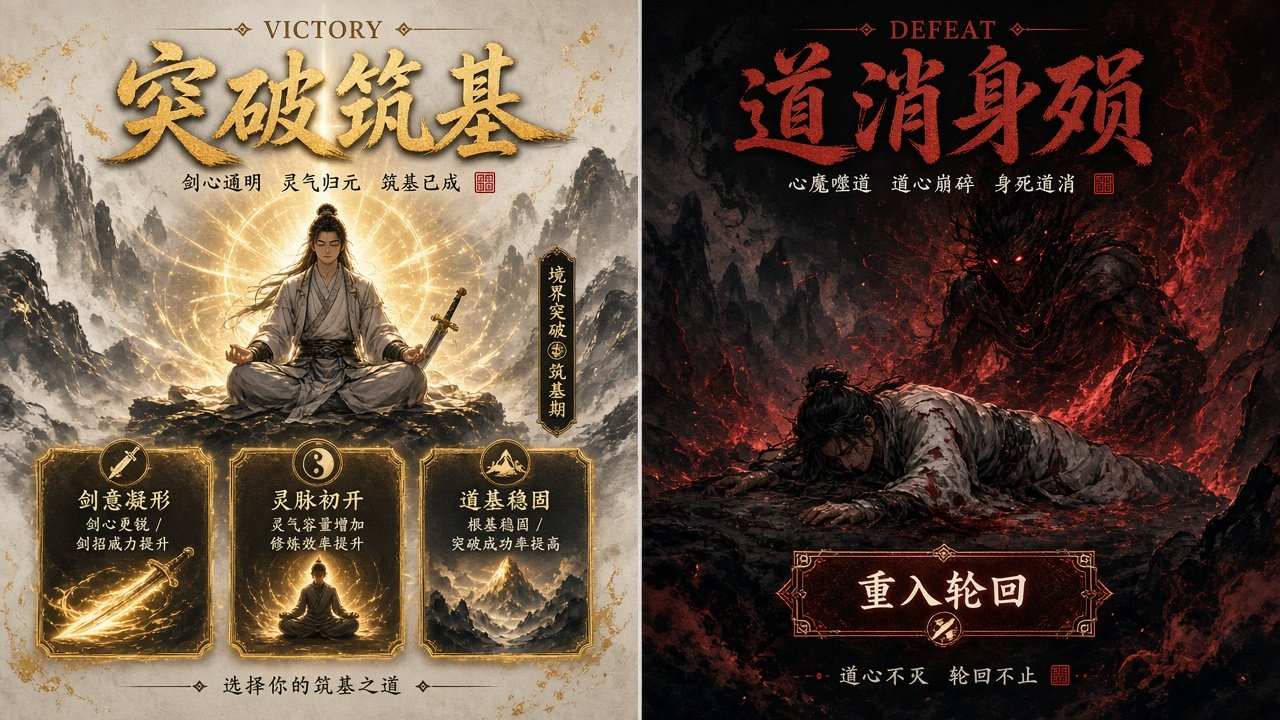
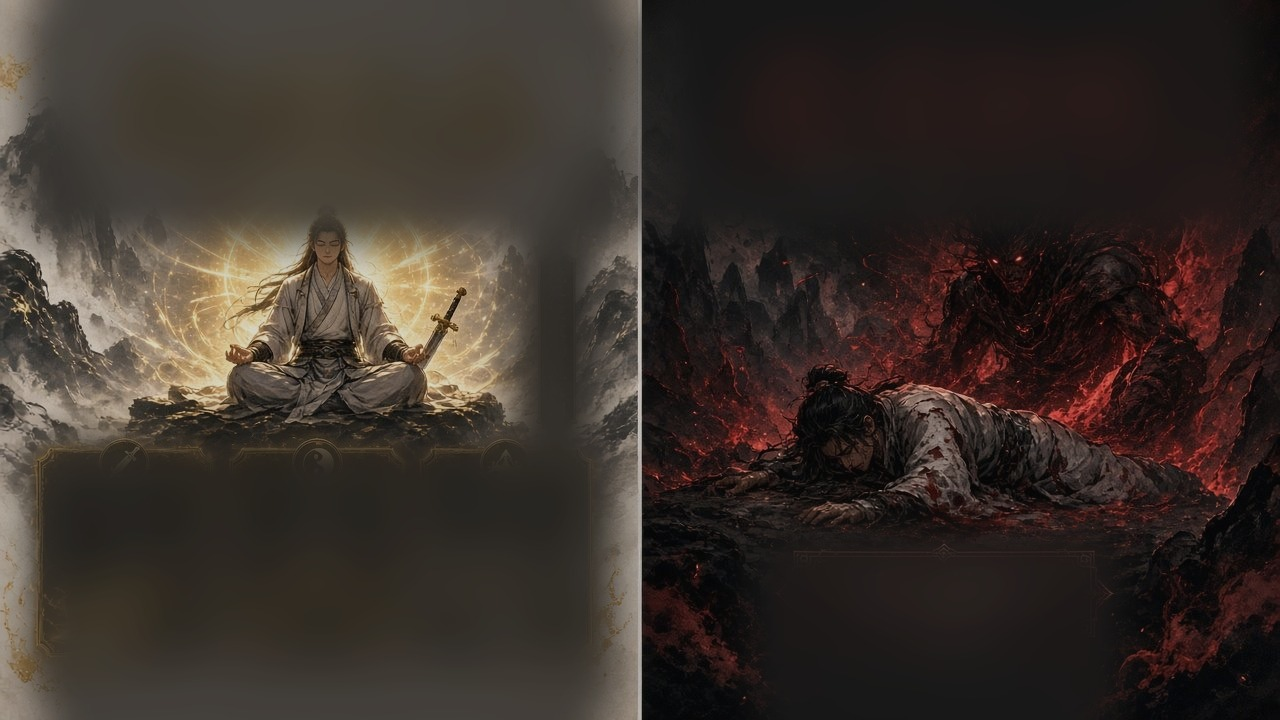
Update the static game to v0.3.
Replace the root site with the new build, including daoxin config, favicons, and card art.

diff --git a/style.css b/style.css
@@ -92,3 +92,29 @@ h1{text-align:center;color:#e8c66a;letter-spacing:6px;margin:0}
 
 .item.relicrow{border:2px solid #e8c66a;box-shadow:0 0 12px rgba(232,198,106,.5)}
 .card.sheng{filter:drop-shadow(0 0 4px rgba(124,255,154,.55))}
+.card .art{position:absolute;overflow:hidden}.card .art img.cart{position:absolute;inset:0;width:100%;height:100%;object-fit:cover}
+
+/* v0.3 */
+.intent.warn{color:#ff5a48;border-color:#ff3020;font-size:18px;font-weight:bold;padding:4px 12px}
+.predict{margin-top:3px;font-size:14px;color:#ff8a7a;font-weight:bold;text-shadow:0 1px 2px #000}.predict.safe{color:#9fe6a0}
+.shengtip{position:absolute;left:50%;top:150px;transform:translateX(-50%);z-index:70;background:rgba(14,30,18,.95);border:2px solid #7cff9a;border-radius:12px;padding:12px 22px;font-size:16px;line-height:1.7;text-align:center;cursor:pointer}
+.shengtip b{color:#9fff9f;font-size:19px}.shengtip small{color:#bfae86}
+.wheel .warrow{position:absolute;left:0;top:0;width:170px;height:170px;pointer-events:none}
+.wheel .warrow line{stroke:#7cff9a;stroke-width:9;stroke-linecap:round;filter:drop-shadow(0 0 6px #7cff9a);animation:aflash .35s 4 alternate}
+@keyframes aflash{from{opacity:1}to{opacity:.15}}
+.eblk{display:inline-flex;align-items:center;justify-content:center;width:40px;height:40px;margin-left:6px;vertical-align:middle;background:url(img/icons/64/enemyBlock.png) center/contain no-repeat;color:#fff;font-weight:bold;font-size:15px;padding:0 1px 2px 0;-webkit-text-stroke:3px #000;paint-order:stroke fill;text-shadow:0 0 2px #000}
+
+/* v0.3 QA */
+html,body{overflow:hidden}
+#app{position:absolute;margin:0;transform-origin:0 0}
+.mapwrap{scrollbar-width:none}.mapwrap::-webkit-scrollbar{display:none}
+.modal{padding-top:30px}.modal .grid{max-height:640px}
+.hand .card{margin:0 var(--hm,-6px)}.hand .card.sheng{z-index:3}.hand .card:hover{z-index:6}
+.enemy.dead{visibility:hidden}
+.log{font-size:14px;width:300px;max-height:170px}
+.node .nl{position:absolute;top:48px;left:50%;transform:translateX(-50%);font-size:11px;white-space:nowrap;color:#d8ccb0;text-shadow:0 1px 2px #000}
+.node.boss .nl{top:92px}
+.legend{top:60px;line-height:1.8}
+.item.evbtn,.restbtn{background:linear-gradient(rgba(201,162,74,.25),rgba(138,106,42,.25));border:2px solid #c9a24a;border-radius:10px;transition:.12s}
+.item.evbtn:hover,.restbtn:hover{border-color:#ffe08a;background:linear-gradient(rgba(201,162,74,.45),rgba(138,106,42,.45));transform:translateY(-2px);box-shadow:0 0 12px rgba(255,216,107,.4)}
+.modal .grid{max-height:600px;gap:16px 12px}.modal .card{zoom:.82}

diff --git a/index.html b/index.html
@@ -1,3 +1,4 @@
 <!doctype html><html lang="zh"><head><meta charset="utf-8"><title>问道塔 · 炼气期</title>
+<link rel="icon" href="favicon/favicon.ico" sizes="any"><link rel="icon" type="image/png" sizes="32x32" href="favicon/favicon-32.png"><link rel="apple-touch-icon" href="favicon/favicon-180.png">
 <link rel="stylesheet" href="style.css"></head><body><div id="app"></div>
 <script src="data.js"></script><script src="game.js"></script></body></html>

diff --git a/README.md b/README.md
@@ -24,3 +24,22 @@
 - 精英奖励页标题“妖王伏诛”，法宝行金色描边。
 - 相生卡：保留“相生 ✦”标签和五行盘“下一相生”提示，卡牌外发光减弱。
 - 删除未使用的旧图 img/jianxiu.png。
+- 卡图：img/cards/<id>.png 自动铺满卡框插画窗（320×241），缺图时回退 emoji（onerror），新卡图按 id 放入即可，无需改代码。
+
+## v0.3（已完成，2026-10-15 22:30）
+备份：/workspace/wendao/game_v02_backup/
+- 数据：道心 DAOXIN 移到 config/daoxin.json（name/desc/tradeoff，保留设计师取舍文案，突破页小字显示），启动时 fetch 加载。注意：从此需用 http 服务打开，双击 index.html（file://）无法加载配置。
+- 丹药栏上限 3：满了时奖励页给出“替换哪一瓶 / 丢弃新丹药”；任意时刻右键丹药可丢弃（带确认）。
+- 相生教学：首次触发弹出一次性提示（如“木生火：上一张是木属性，这张火属性卡获得加成”），localStorage 键 wd_shengTip 记住；每次相生五行盘对应箭头闪烁。卡牌发光不加强。
+- 意图：敌人头顶显示原始伤害（含力量/剑意/冻结减半，不计玩家易伤）；玩家血条下显示“预计受到 X 点伤害”（全部攻击意图合计，计入易伤、冻结、镇魂铜钟，减当前护体，最小 0）。心魔蓄力预警改为更大、更红。
+- 敌人护体真气改用 enemyBlock 图标，数字白字黑描边居中；玩家护体不变。
+- 加入 favicon（favicon/）。
+- 新测试入口：#test=potionfull | shengtip | predict | breakthrough
+- 试玩清单 playtest_v02.md 开发项：
+  #2 画面按窗口等比缩放居中（不再 683×426 留黑）；升级/删卡选牌弹窗卡牌缩到 0.82，20 张三行完整显示；地图隐藏滚动条（仍可滚轮）。
+  #3 手牌按张数自动收紧间距，相生牌置于上层（标签不被挡），悬停置顶。
+  #4 战斗灵石自动入账（奖励页显示“已入账”）；丹药满时替换/丢弃（见上）。
+  #7 死亡敌人完全隐藏；日志字号 12→14，过滤“造成 0 点伤害”。
+  #9 奇遇/洞府选项改按钮样式（金边、悬停高亮）；地图节点下方常显名称；图例上移不被裁。
+- 测试入口另加 #test=bighand | upgrade
+- 洞府打坐背景（借用 event.jpg，含大字）压暗+加模糊，避免干扰；result.jpg 新图下突破/陨落页文字清晰，亮度未调。
